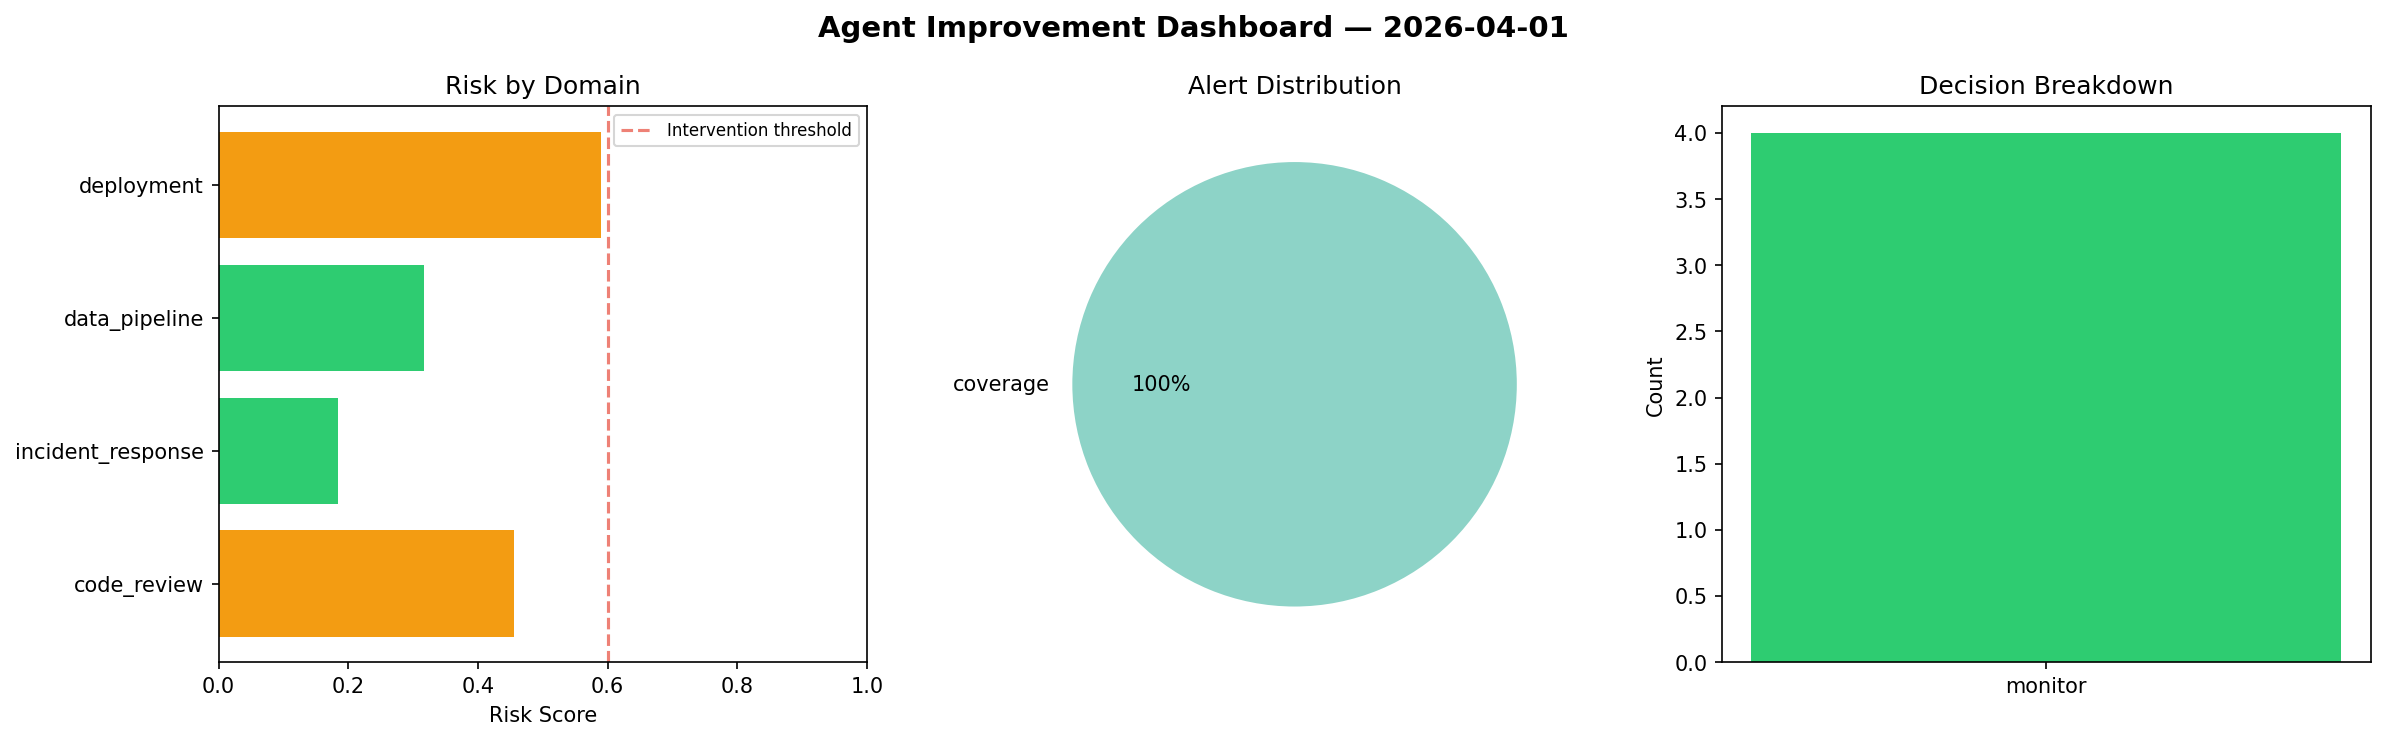
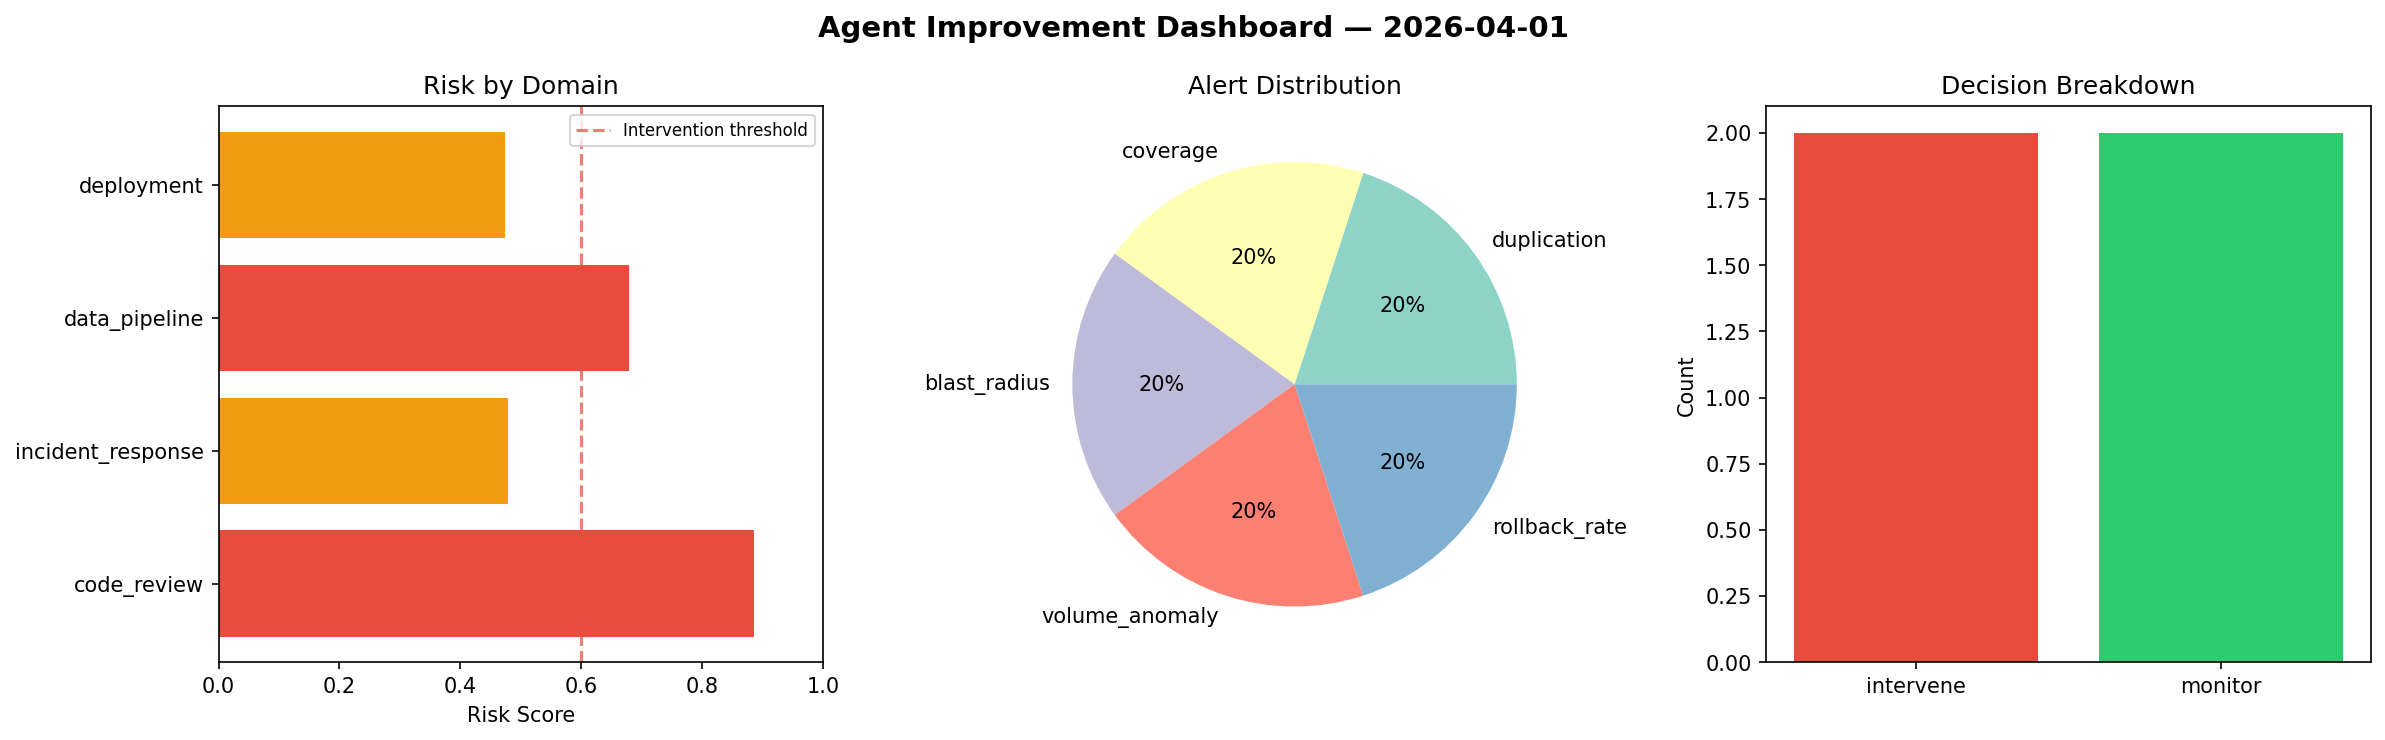
agent-improvement: daily cycle 2026-04-01T15:42

diff --git a/logs/2026-04-01.md b/logs/2026-04-01.md
@@ -1,6 +1,6 @@
 # Agent Improvement Report — 2026-04-01
 
-**Cycle ID:** `703b1751` | **Avg Risk:** 0.387 | **Interventions:** 0/4
+**Cycle ID:** `a57b50ec` | **Avg Risk:** 0.6299 | **Interventions:** 2/4
 
 ![Dashboard](2026-04-01_dashboard.png)
 
@@ -10,18 +10,18 @@
 
 | Domain | Risk Score | Decision | Alerts |
 |--------|-----------|----------|--------|
-| code_review | 0.4562 | monitor | coverage |
-| incident_response | 0.1847 | monitor | none |
-| data_pipeline | 0.3167 | monitor | none |
-| deployment | 0.5903 | monitor | none |
+| code_review | 0.8858 | intervene | duplication, coverage |
+| incident_response | 0.4796 | monitor | blast_radius |
+| data_pipeline | 0.6795 | intervene | volume_anomaly |
+| deployment | 0.4746 | monitor | rollback_rate |
 
 ## Delta vs Yesterday
 
 | Domain | Today | Yesterday | Change |
 |--------|-------|-----------|--------|
-| code_review | 0.4562 | 0.3567 | 📈 27.9% |
-| incident_response | 0.1847 | 0.5528 | 📉 -66.6% |
-| data_pipeline | 0.3167 | 0.673 | 📉 -52.9% |
-| deployment | 0.5903 | 0.4138 | 📈 42.7% |
+| code_review | 0.8858 | 0.3567 | 📈 148.3% |
+| incident_response | 0.4796 | 0.5528 | 📉 -13.2% |
+| data_pipeline | 0.6795 | 0.673 | 📈 1.0% |
+| deployment | 0.4746 | 0.4138 | 📈 14.7% |
 
-**Refinement:** `{'adjustment': 'tighten_thresholds', 'trend': 'degrading', 'window': 4}`
+**Refinement:** `{'adjustment': 'maintain', 'trend': 'improving', 'window': 4}`
